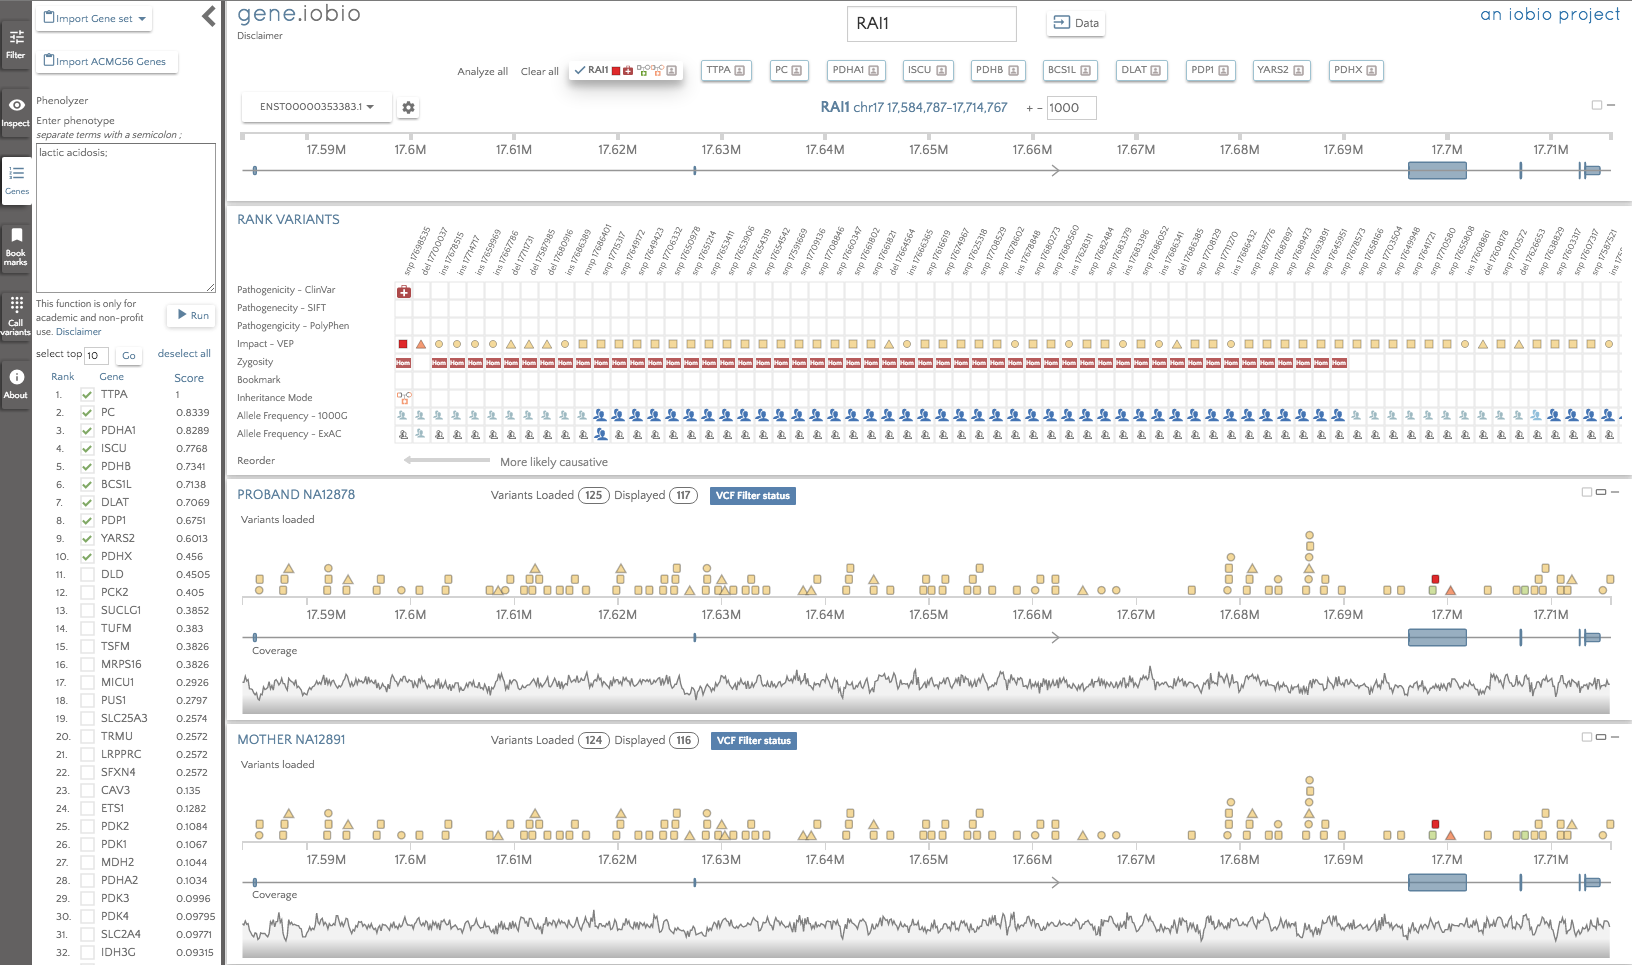
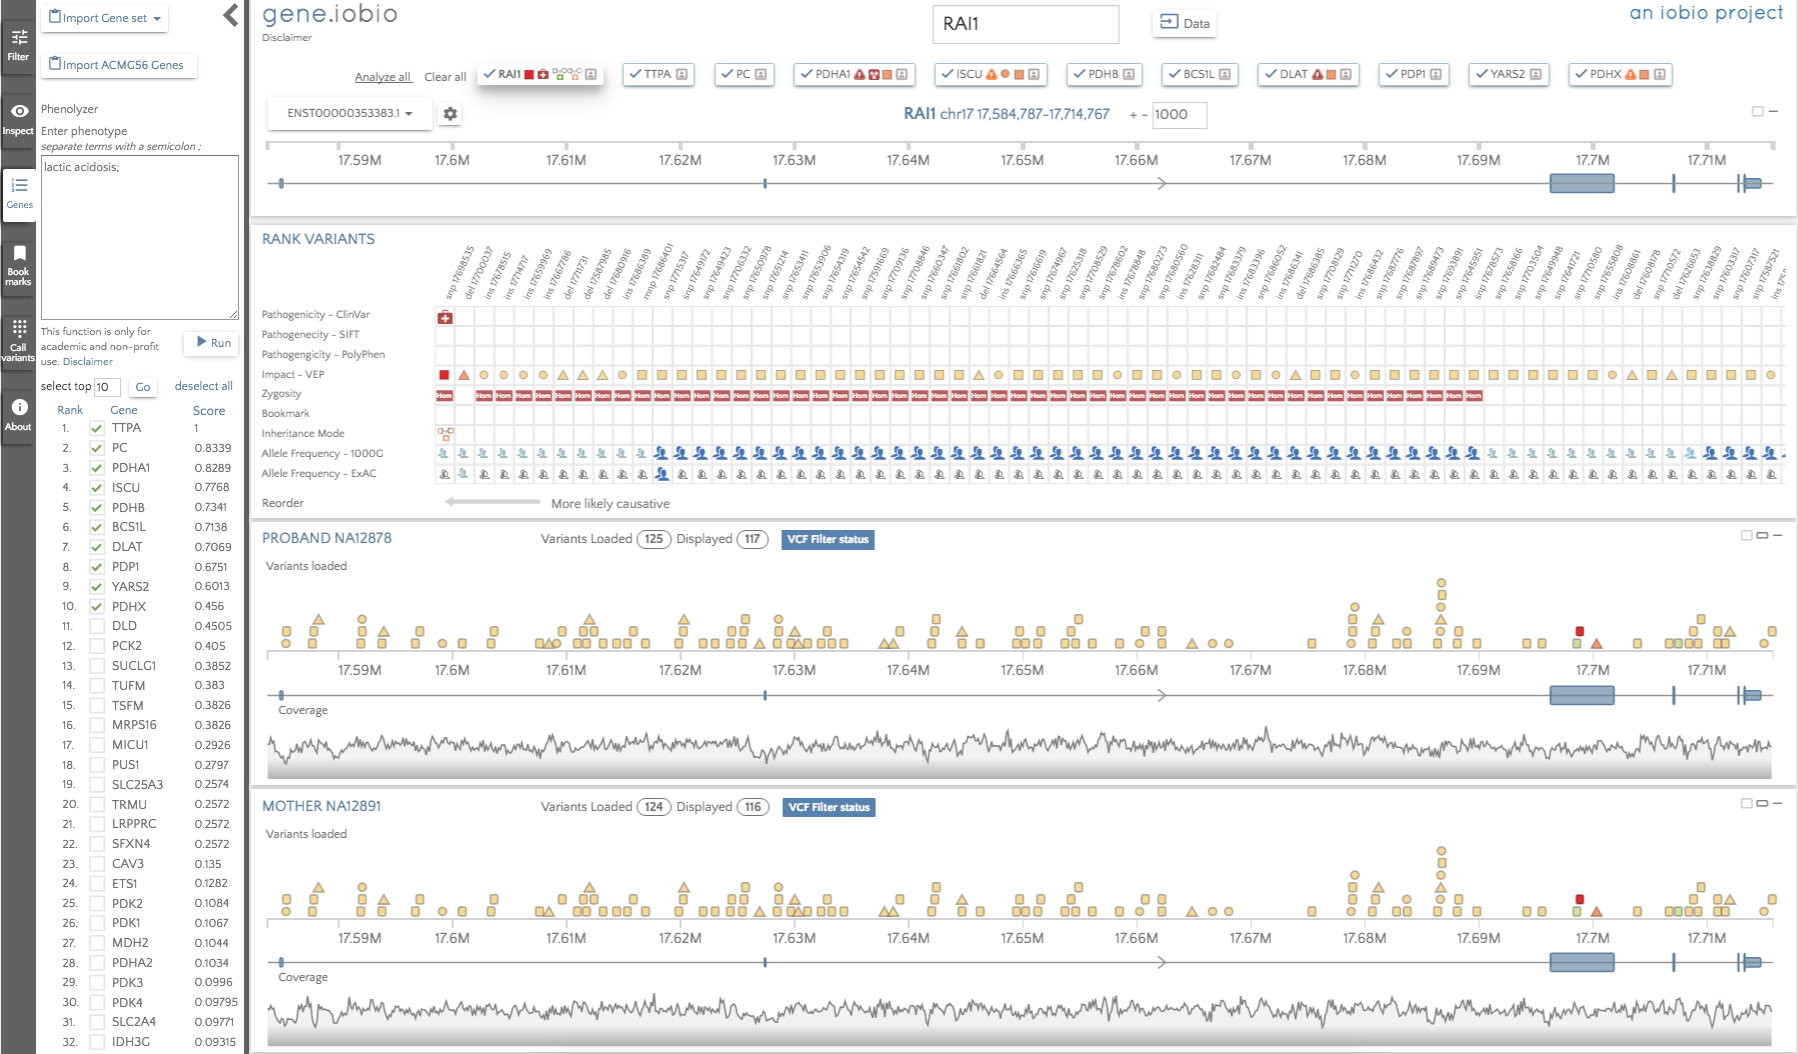
Added the Phenolyzer blog post.

diff --git a/_posts/2016-03-30-phenolyzer.md b/_posts/2016-03-30-phenolyzer.md
@@ -1,0 +1,30 @@
+---
+layout: post
+title: Phenolyzer
+image: /public/images/blog/phenolyzer/main.png
+subtitle: How do I generate phenotype driven gene lists?
+tags:
+  - Alistair Ward
+  - gene.iobio
+---
+A <a href='http://iobio.io/2016/03/28/multi-gene/', target="_blank">previous post</a> in the <a href='http://gene.iobio.io', target="_blank">gene.iobio</a> version 2 blog series focused on analyzing multiple genes simultaneously. This functionality has really increased the power of <a href='http://gene.iobio.io', target="_blank">gene.iobio</a>, making it a lot easier to analyze a set of genes and identify candidate disease variants. The problem is, though, that we still need to generate a list of genes to analyze. As described in the <a href='http://iobio.io/2016/03/29/acmg56/', target="_blank">previous post</a>, we can start with the list of 56 genes identified by the ACMG, but what would be ideal, would be start with a phenotype and generate a gene list from there. Fortunately, that is exactly what we can do!
+
+In this post, we will use the modified <a href='http://gene.iobio.io/?rel0=proband&rel1=mother&rel2=father&name0=&vcf0=https://s3.amazonaws.com/iobio/gene/wgs_platinum/platinum-trio.vcf.gz&bam0=https://s3.amazonaws.com/iobio/gene/wgs_platinum/NA12878.bam&name1=&vcf1=https://s3.amazonaws.com/iobio/gene/wgs_platinum/platinum-trio.vcf.gz&bam1=https://s3.amazonaws.com/iobio/gene/wgs_platinum/NA12892.bam&name2=&vcf2=https://s3.amazonaws.com/iobio/gene/wgs_platinum/platinum-trio.vcf.gz&bam2=https://s3.amazonaws.com/iobio/gene/wgs_platinum/NA12891.bam&sample0=NA12878&sample1=NA12891&sample2=NA12892&genes=RAI1&gene=RAI1', target='_blank'>Platinum trio</a> dataset and assume this data originates from a family trio where the child is suffering from <i>lactic acidosis</i>. If we know a lot about this phenotype, we may know of some likely genes where we can start our analysis, but what if we do not? Or what if these genes turn up no candidate variants? Using <a href='http://phenolyzer.usc.edu/', target='_blank'>Phenolyzer</a>, a tool developed in the lab of <a href='http://genomics.usc.edu/', target='_blank'>Kai Wang</a> at <a href='http://www.usc.edu/', target='_blank'>USC</a>, we can use the phenotype to generate a gene list. For more information on this tool, or other software developed in this lab, go <a href='http://genomics.usc.edu/research', target='_blank'>here</a>.
+
+To use <a href='http://phenolyzer.usc.edu/', target='_blank'>Phenolyzer</a>, click on the 'Genes' button to the left of the <a href='http://gene.iobio.io', target="_blank">gene.iobio</a> screen and then enter your phenotype terms where indicated.
+
+<div><img src="/public/images/blog/phenolyzer/phenolyzer.png" style="width:55%; margin:20px 120px;"></img></div>
+
+In this case, we enter <i>lactic acidosis</i>, click 'Run' and wait for <a href='http://phenolyzer.usc.edu/', target='_blank'>Phenolyzer</a> to do its magic! Very briefly, <a href='http://phenolyzer.usc.edu/', target='_blank'>Phenolyzer</a> works by trying to match the entered phenotype terms to disease and phenotype terms in its own database to produce a list of seed genes. These genes are then checked for interactions with all other genes in the genome, accounting for four types of interaction; protein-protein interactions, genes in the same Biosystem or the same gene family and in transcription interactions. Based on all of this, a machine learning model is used to generate a score for each gene, and the output is a list of genes ordered by their scores.  The output gene list for <i>lactic acidosis</i> appears in the left panel and the top 10 (this number is user configurable) genes appear as gene badges, ready to be interrogated.
+
+<div><img src="/public/images/blog/phenolyzer/phenolyzer-list.png" style="width:100%; margin:20px 0px;"></img></div>
+
+By default, the genes are not automatically analyzed, but we can select 'Analyze all' to begin analysis. When complete, the gene badges describe any interesting variants within them using the glyphs described in the <a href='http://iobio.io/2016/03/28/multi-gene/', target="_blank">multi-gene analysis post</a>.
+
+<div><img src="/public/images/blog/phenolyzer/gene-badges.png" style="width:100%; margin:20px 0px;"></img></div>
+
+The gene badges are in the prioritized order, so the gene to the furthest left (TTPA) is considered the most important by <a href='http://phenolyzer.usc.edu/', target='_blank'>Phenolyzer</a>. The RAI1 gene still appears in the gene badges, since this was present prior to running Phenolyzer. We can see that there are no glyphs associated with the TTPA gene, so there are no high impact variants to look at there. The highest ranked gene that does have interesting variants to look at is PDHA1, so that is the first gene we should look at. In this gene, we see only two variants; an insertion in a promoter and a <i>de novo</i> missense variant predicted to be <i>deleterious</i> by SIFT and <i>probably_damaging</i> by PolyPhen. The variant is not seen in either 1000 Genomes or in ExAC, so this variant may well be a good candidate for the obseved phenotype.
+
+<div><img src="/public/images/blog/phenolyzer/pdha1.png" style="width:75%; margin:20px 100px;"></img></div>
+
+We hope that you find this functionality useful and we would like to thank Kai Wang and his lab for allowing <a href='http://phenolyzer.usc.edu/', target='_blank'>Phenolyzer</a> to be integrated into <a href='http://gene.iobio.io', target="_blank">gene.iobio</a>.
